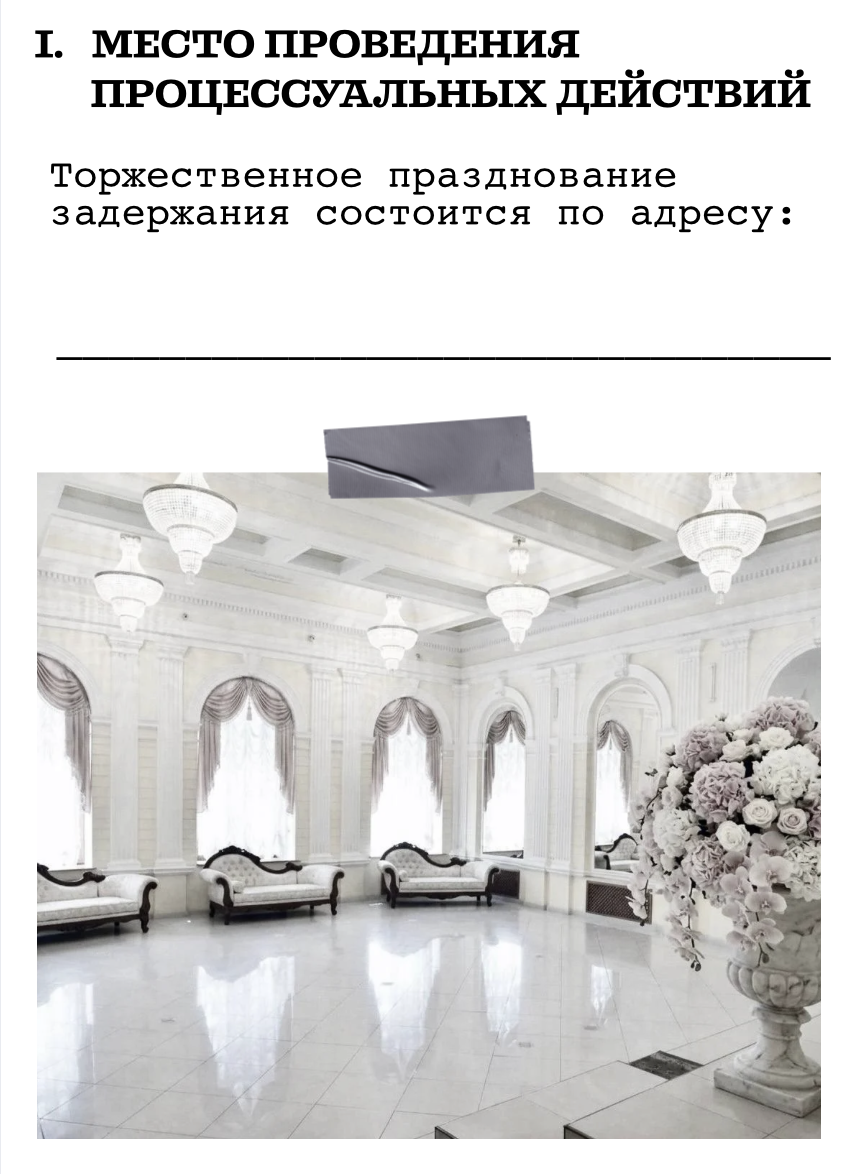
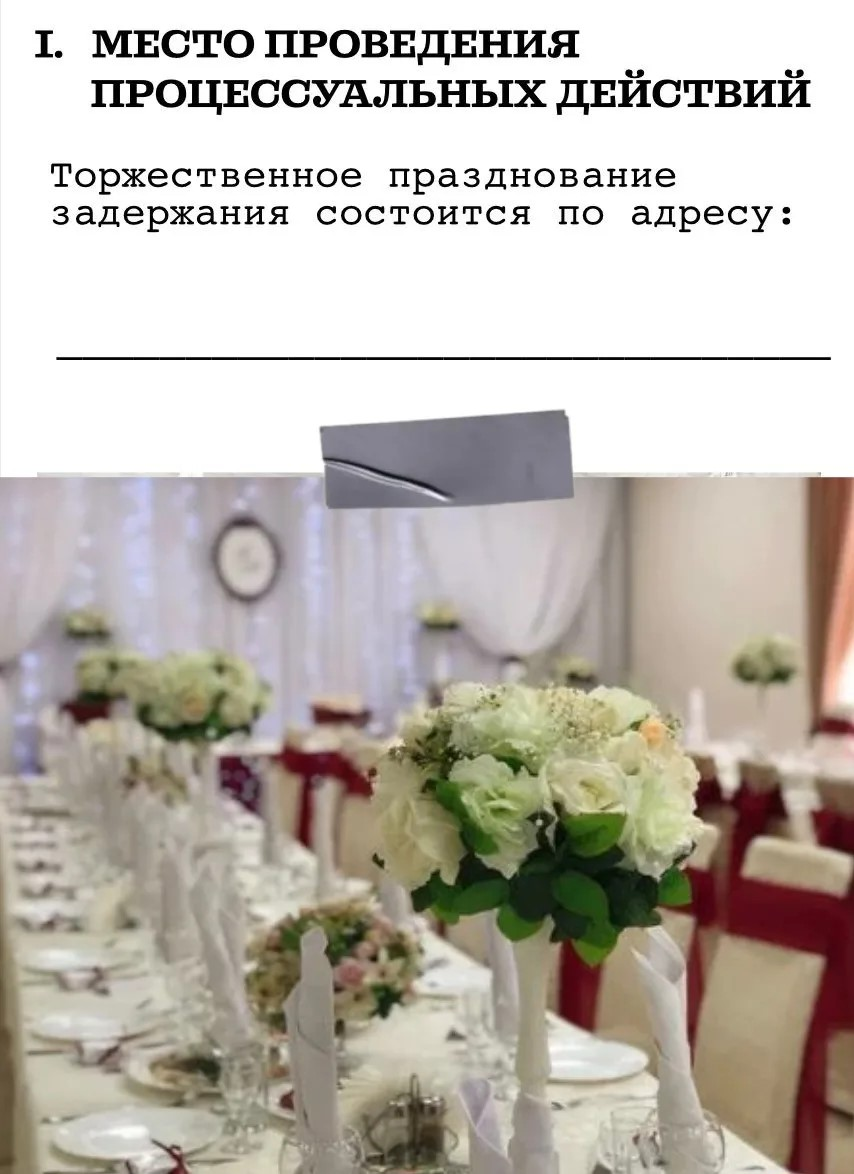
вар

diff --git a/index.html b/index.html
@@ -86,7 +86,7 @@
     <img class="block5-img" src="img/9.png" alt="">
 
     <div class="block5-text">
-      <span class="block5-line">г. Оренбург, загс, ---</span>
+      <span class="block5-line">г. Оренбург, Банкетный зал, Белые ночи</span>
     </div>
   </div>
 
